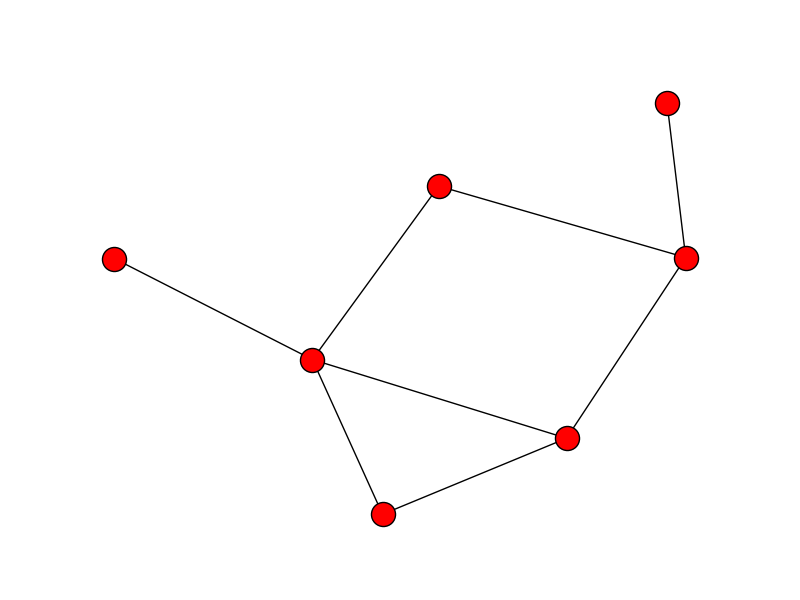
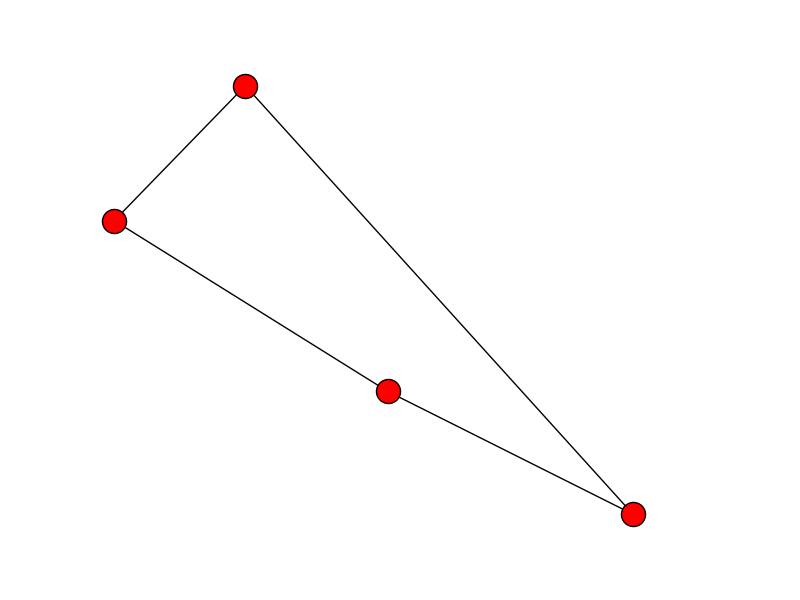
Graphs Pngs

diff --git a/plot.py b/plot.py
@@ -1,5 +1,12 @@
 import csv
+import networkx as nx
+import matplotlib
+# Force matplotlib to not use any Xwindows backend.
+matplotlib.use('Agg')
+import matplotlib.pyplot as plt
 
+
+G=nx.Graph()
 mylist = []
 tuplist = []
 #graph =  {}
@@ -26,20 +33,24 @@ for i in range(len(mylist)):
 
           #if(end == jend): graph[start] = ?         
           #j++
-print tuplist
+#print tuplist
 
+                              
+G.add_node("a")
+G.add_nodes_from(["b","c"])
+G.add_edge(1,2)
+edge = ("d", "e")
+G.add_edge(*edge)
+edge = ("a", "b")
+G.add_edge(*edge)
 
+print("Nodes of graph: ")
+print(G.nodes())
+print("Edges of graph: ")
+print(G.edges())
 
-
-'''
-def generate_edges(graph):
-    edges = []
-    for node in graph:
-        for neighbour in graph[node]:
-            edges.append((node, neighbour))
-
-    return edges
-'''
-
-#print(generate_edges(graph))
-                                     
+# adding a list of edges:
+G.add_edges_from([("a","c"),("c","d"), ("a",1), (1,"d"), ("a",2)])
+nx.draw(G)
+plt.savefig("simple_path.png") # save as png
+plt.show() # display

diff --git a/sampleGraphs.py b/sampleGraphs.py
@@ -1,0 +1,26 @@
+import networkx as nx
+import matplotlib
+# Force matplotlib to not use any Xwindows backend.
+matplotlib.use('Agg')
+import matplotlib.pyplot as plt
+
+G=nx.Graph()
+G.add_node("a")
+G.add_nodes_from(["b","c"])
+
+G.add_edge(1,2)
+edge = ("d", "e")
+G.add_edge(*edge)
+edge = ("a", "b")
+G.add_edge(*edge)
+
+print("Nodes of graph: ")
+print(G.nodes())
+print("Edges of graph: ")
+print(G.edges())
+
+# adding a list of edges:
+G.add_edges_from([("a","c"),("c","d"), ("a",1), (1,"d"), ("a",2)])
+nx.draw(G)
+plt.savefig("simple_path.png") # save as png
+plt.show() # display
